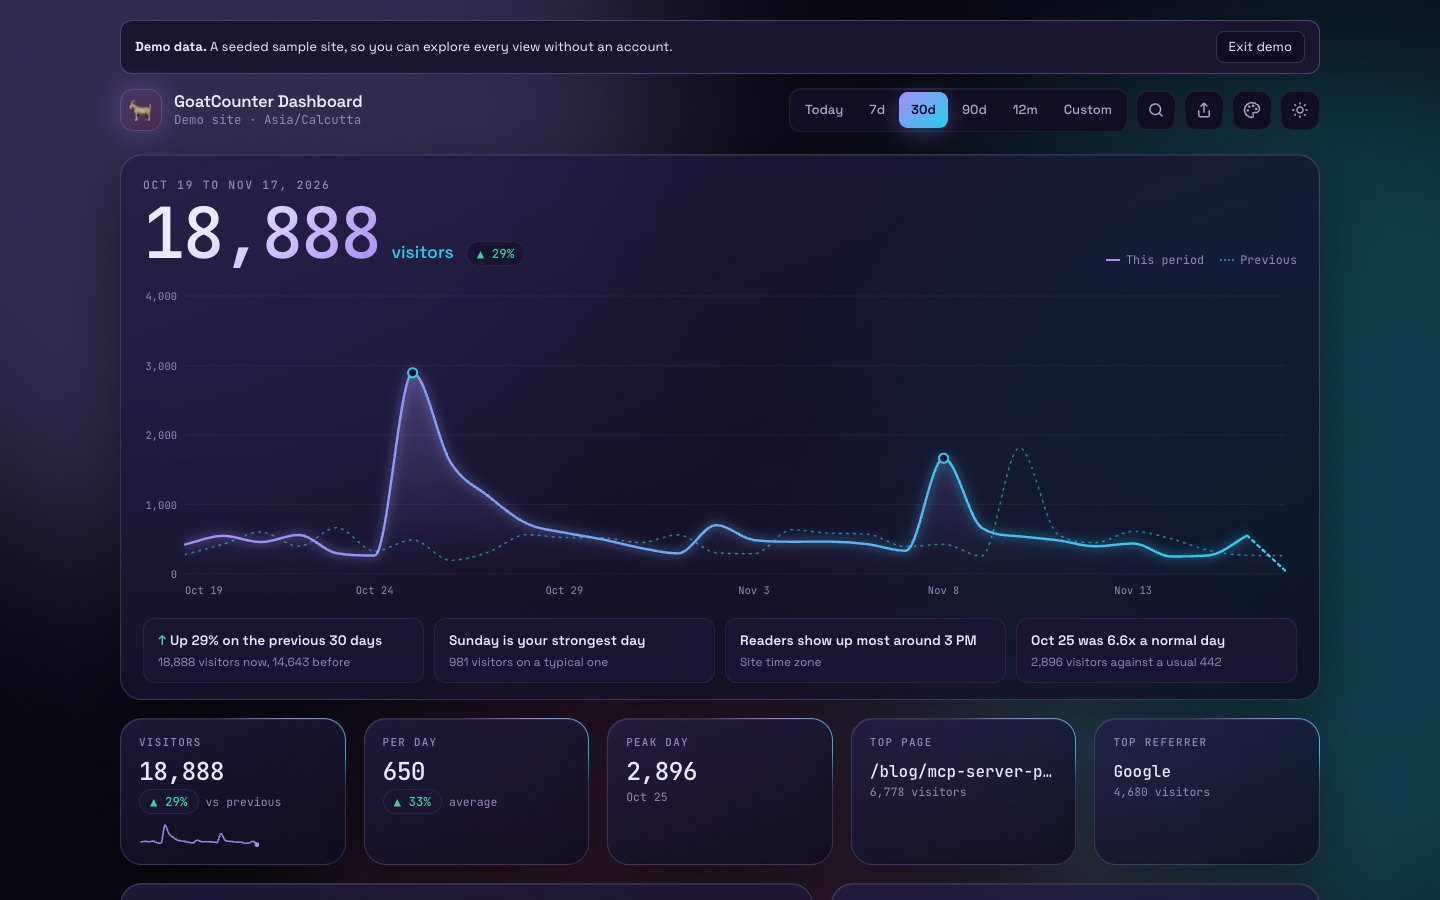
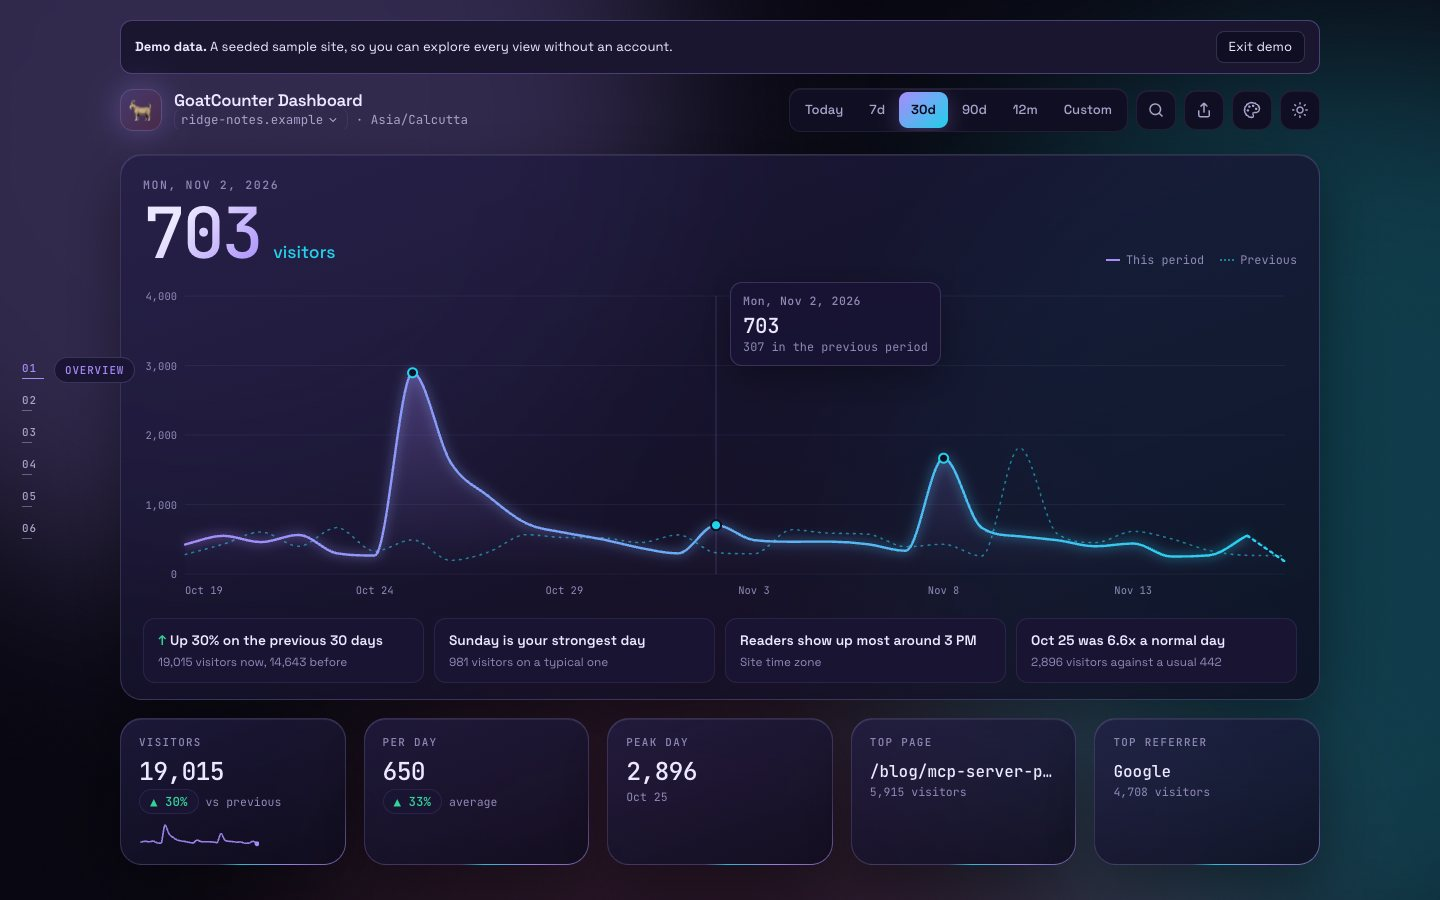
Document the section rail, site switcher and page filter

diff --git a/README.md b/README.md
@@ -14,6 +14,9 @@ An open-source dashboard for [GoatCounter](https://www.goatcounter.com/) analyti
 - Both come in dark and light. A new visit always opens in **Nova dark**. Your choice lasts for the tab, and you can tick **Remember my choice** to keep it for next time.
 
 **Views**
+- **Section rail**: a numbered rail on the left of wide screens (five sections: Overview, Traffic, Audience, Rhythm, Tech). The current section is underlined and named, and a click scrolls to it.
+- **All your sites**: one key can open every site of your account. Pick a site from the name under the title (or press `s`), and your choice is remembered. It needs the **Read sites** permission; without it you see the one site the key was made for.
+- **One page at a time**: open a page in Top pages and choose **Show only this page**. Every card narrows to that page until you press **Show all pages**.
 - **Visitors over time**: a line that draws itself, a ghost line for the previous period, a dashed live edge, annotated spikes, and a crosshair that follows the pointer, touch or arrow keys. Click a day to zoom into its 24 hours.
 - **Highlights**: plain sentences generated from your numbers, for example "Sunday is your strongest day".
 - **Stat cards**: visitors, per day, peak, top page and top referrer, with trend chips and sparklines.
@@ -47,6 +50,10 @@ On a phone:
 
 ![The dashboard on a phone](assets/screenshots/mobile.jpg)
 
+Switching sites and narrowing to one page, with the section rail on the left:
+
+![Site switcher, page filter and section rail](assets/screenshots/sites.jpg)
+
 The command palette and the recap image:
 
 ![Command palette and recap image](assets/screenshots/tools.jpg)
@@ -79,7 +86,7 @@ There is no build step and nothing to install.
 
 1. Log in to your GoatCounter site.
 2. Click your username in the top menu, then **API**.
-3. Under **Add new API Token**, name it and tick only **Read statistics**. That is the only permission the dashboard needs.
+3. Under **Add new API Token**, name it and tick **Read statistics**. Also tick **Read sites** if you want to switch between the sites of your account. Nothing else is needed.
 4. Choose which sites the key can read, then **Add new**.
 5. Copy the key into the connect screen.
 
@@ -91,6 +98,7 @@ There is no build step and nothing to install.
 | `t` `w` `m` `q` `y` | Today, 7 days, 30 days, 90 days, 12 months |
 | `l` | Switch light and dark |
 | `n` | Switch Nova and Classic |
+| `s` | Switch site (when your key can read more than one) |
 | `r` | Share a recap image |
 | `Shift` + `R` | Refresh data (clears this site's cache and fetches everything again) |
 | Arrow keys | Move along the main chart (when it has focus) |
@@ -120,6 +128,7 @@ The dashboard talks to GoatCounter's read-only REST API (`/api/v0`) with a Beare
 | Endpoint | Used for |
 |---|---|
 | `GET /me` | Check the connection, read the account time zone |
+| `GET /sites` | The sites of your account, for the site switcher (needs Read sites) |
 | `GET /stats/total` | Visitors, the chart, the hour and weekday patterns, the calendar year |
 | `GET /stats/hits` | Top pages and their daily series |
 | `GET /stats/hits/{path_id}` | Where one page's visitors came from (on click) |
@@ -129,6 +138,8 @@ The dashboard talks to GoatCounter's read-only REST API (`/api/v0`) with a Beare
 | `GET /stats/locations` (and `/{id}`) | Countries, with regions on click |
 | `GET /stats/languages` | Languages |
 | `GET /stats/campaigns` (and `/{id}`) | Campaigns, shown only when there are some |
+
+**Pages.** Narrowing to one page adds `include_paths=<page id>` to every statistics request, so each card shows that page alone.
 
 **Request budget.** After connecting, the first screen needs five requests: `/me`, the current and previous `total`, `hits` and `toprefs`. Every other card loads when it scrolls near the viewport. The Sankey traces six referrers one at a time.
 
@@ -147,6 +158,7 @@ The dashboard sends nothing anywhere except your own GoatCounter instance. Nothi
 | localStorage | `gc-dashboard-config-v1` | Your GoatCounter URL and API key (removed on Disconnect) |
 | localStorage | `gc-dashboard-range-v2` | Your last date range |
 | localStorage | `gc-dashboard-goal-v1:<site>` | Your monthly goal |
+| localStorage | `gc-dashboard-site-v1` | The site you had open (only when you use more than one) |
 | localStorage | `gc-dashboard-pref` | Design and mode, only if you tick Remember my choice |
 | sessionStorage | `gc-dashboard-session` | Design and mode for this tab |
 | IndexedDB | `gc-dashboard` | Cached API answers |

diff --git a/ARCHITECTURE.md b/ARCHITECTURE.md
@@ -32,6 +32,7 @@ js/
     year.js           calendar year, streaks, goal rings
     sankey.js         referrer-to-page flows
     palette.js        command palette and the shortcut hook
+    rail.js           the numbered section rail and its scroll spy
     recap.js          recap image (SVG to PNG)
 vendor/               Preact, hooks, htm, cobe, phenomenon, with their licences
 fonts/                self-hosted Latin variable fonts, with licences
@@ -50,6 +51,12 @@ scripts/              Node tooling, only for regenerating the world map
 ### The API client
 
 `api.js` sends one request at a time. After each response it waits a short gap (330 ms, or 450 ms until a response proves the rate-limit headers are readable). If `X-Rate-Limit-Remaining` is 1 or less it waits for `X-Rate-Limit-Reset`. A 429 or a network error retries with a back-off; a 401, 403 or 404 does not, and each has its own readable message. Cached answers skip the queue.
+
+### Sites and pages
+
+`App` keeps one `API` client per site address (`pool`) and the open one in `session.api`. About two seconds after the first screen, `listSites` calls `GET /sites` (once per six hours, cached). A site lives at its custom domain, or at `<code>.goatcounter.com`; the same key is used for each. Without the **Read sites** permission the call fails and the list is just the one site. Choosing another site builds its client, asks `/me` for its time zone, and swaps `session.api`. `Dashboard` is keyed by the site address, so it remounts and every card, cache key and filter starts clean.
+
+`narrow(api, ids)` returns a view of a client that adds `include_paths` to statistics requests (except `/stats/hits/{id}`). It shares the queue, rate-limit state and cache with the original. `Dashboard` hands every card the narrowed view while a page is chosen, and because `useApi` depends on its `api` argument, every card refetches by itself.
 
 ### Time zones
 
@@ -83,7 +90,7 @@ Components that must differ by design read the current look from the context: th
 
 ## The demo
 
-`demo.js` builds one hourly model for 760 days: weekday and time-of-day rhythm across several audience time zones, a seasonal swing, per-page growth curves, newsletter pulses, one viral spike tied to a named referrer and page, a page that launches part-way through, and a two-day lull. Every API answer (`total`, `hits`, `toprefs`, countries, browsers and the rest) is computed from that model, so any range, previous period or drill-down stays consistent. It is seeded, so the numbers are the same on every load.
+`demo.js` builds one hourly model for 760 days: weekday and time-of-day rhythm across several audience time zones, a seasonal swing, per-page growth curves, newsletter pulses, one viral spike tied to a named referrer and page, a page that launches part-way through, and a two-day lull. Three imaginary sites (`createDemoSites`) feed the site switcher; each builds on first use from its own seed, rate and page list, and understands `include_paths`. Every API answer (`total`, `hits`, `toprefs`, countries, browsers and the rest) is computed from that model, so any range, previous period or drill-down stays consistent. It is seeded, so the numbers are the same on every load.
 
 ## Globe, map and skyline
 

diff --git a/TROUBLESHOOTING.md b/TROUBLESHOOTING.md
@@ -147,6 +147,10 @@ The map uses Natural Earth 110m shapes for fast loading, and the globe puts a ma
 
 The globe needs WebGL. If your browser has WebGL turned off, or the graphics driver is blocked, the dashboard switches to the flat map on its own. You can also choose **Map** with the Globe and Map buttons above it.
 
+### I only see one site, or the site switcher is missing
+
+The switcher appears when the key can read more than one site. Listing sites needs the **Read sites** permission, so create a new key with **Read statistics** and **Read sites** ticked, then disconnect and connect with it. A site on a custom domain must also answer the API from that domain with CORS allowed, like the first site (see the CORS section below).
+
 ### Campaign card doesn't appear
 
 The campaigns card only appears when GoatCounter has recorded campaign traffic (for example `utm_source`, `utm_medium`, `utm_campaign`) in the range you chose. With none, it is hidden on purpose, and it is also hidden if your instance does not offer the campaigns endpoint.
